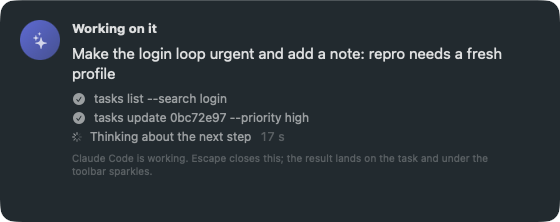
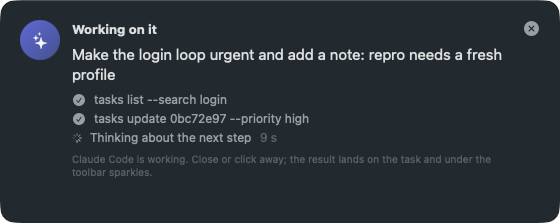
Voice panel: a close button beside the headline, and it closes when you click any other window; a running job keeps going under the toolbar sparkles

diff --git a/Sources/OpticalFlow/VoiceViews.swift b/Sources/OpticalFlow/VoiceViews.swift
@@ -35,9 +35,18 @@ struct VoiceView: View {
         HStack(alignment: .top, spacing: Space.md) {
             VoiceAvatar(listening: voice.listening, busy: voice.busy, done: !voice.reply.isEmpty, failed: voice.error != nil)
             VStack(alignment: .leading, spacing: Space.sm) {
-                Text(headline(voice))
-                    .font(.headline)
-                    .contentTransition(.opacity)
+                HStack(alignment: .firstTextBaseline) {
+                    Text(headline(voice))
+                        .font(.headline)
+                        .contentTransition(.opacity)
+                    Spacer()
+                    Button("Close", systemImage: "xmark.circle.fill") { voice.close() }
+                        .buttonStyle(.borderless)
+                        .labelStyle(.iconOnly)
+                        .font(.title3)
+                        .foregroundStyle(.secondary)
+                        .help(voice.busy ? "Close (Escape). The job keeps running under the toolbar sparkles." : "Close (Escape)")
+                }
                 TextField("Say or type what to do", text: $voice.transcript, axis: .vertical)
                     .textFieldStyle(.plain)
                     .font(.title3)
@@ -102,7 +111,7 @@ struct VoiceView: View {
 
     private func footer(_ voice: VoiceAgent) -> String {
         if voice.listening { return "Pause to send, or press Return. Escape cancels." }
-        if voice.busy { return "\(voice.orchestrator.title) is working. Escape closes this; the result lands on the task and under the toolbar sparkles." }
+        if voice.busy { return "\(voice.orchestrator.title) is working. Close or click away; the result lands on the task and under the toolbar sparkles." }
         return "Clear commands run at once. Longer requests go to \(voice.orchestrator.title). Settings > Agent."
     }
 }

diff --git a/Sources/OpticalFlow/VoiceAgent.swift b/Sources/OpticalFlow/VoiceAgent.swift
@@ -587,6 +587,12 @@ final class VoiceAgent {
         panel.standardWindowButton(.zoomButton)?.isHidden = true
         panel.setFrameAutosaveName("VoicePanel")
         panel.contentView = NSHostingView(rootView: VoiceView().environment(model).themed())
+        // Clicking any other window closes the panel, like a popover. Snapshot runs move focus around, so they keep it.
+        if ProcessInfo.processInfo.environment["APP_SNAPSHOT"] == nil {
+            NotificationCenter.default.addObserver(forName: NSWindow.didResignKeyNotification, object: panel, queue: .main) { [weak self] _ in
+                MainActor.assumeIsolated { self?.close() }
+            }
+        }
         return panel
     }
 

diff --git a/docs/FIXLOG.md b/docs/FIXLOG.md
@@ -117,3 +117,9 @@ Symptom: Rename… on a project showed an alert whose field was empty, so a rena
 Cause: the alert's text field was bound to a state that `onChange(of: projectPrompt)` filled in, but SwiftUI builds an alert's contents when it is presented, before that change ran.
 Fix: a sheet whose editor copies the project into a draft in its own `onAppear`, and writes the draft back on Save.
 Rule: a form that edits an existing value loads that value inside the view that shows it, never from a change handler on the presenting view.
+
+## 2026-11-04 The voice panel had no way to dismiss it after an answer
+Symptom: when a job finished, the panel stayed on screen; only Escape closed it, and nothing said so once the text field lost focus.
+Cause: the panel hid the standard close button and set no close-on-deactivate, so it behaved like a window with no chrome.
+Fix: a close button beside the headline, and the panel closes when any other window becomes key. A running job keeps going under the toolbar sparkles.
+Rule: a floating panel without a title bar gets its own close button and closes when focus moves away.
